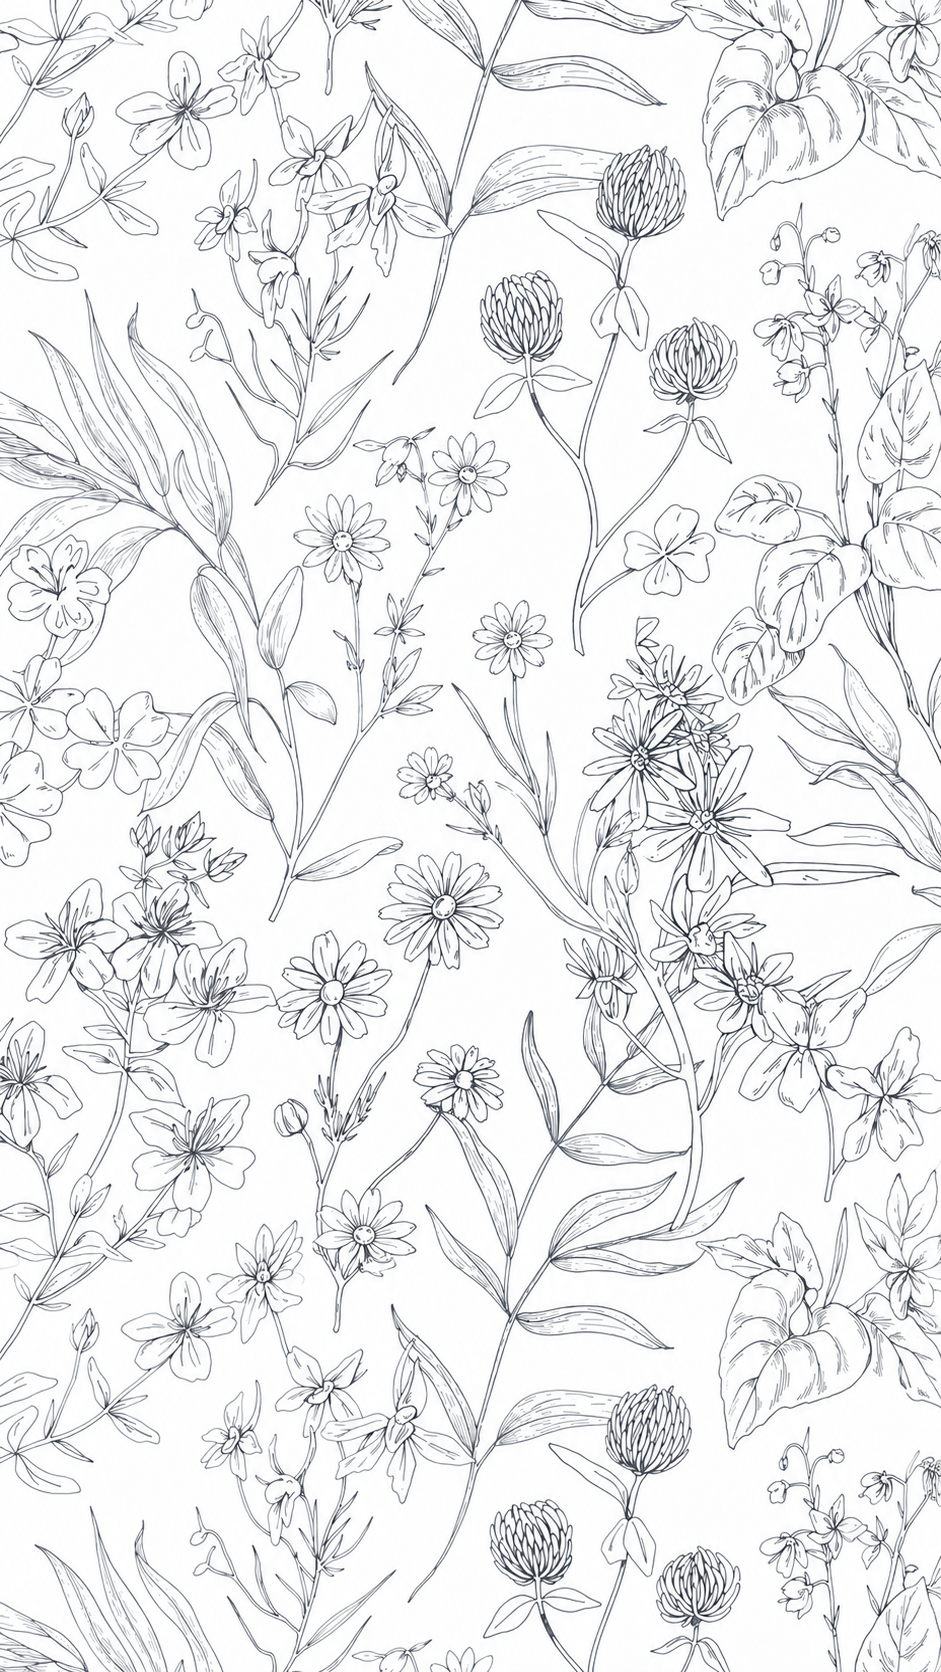
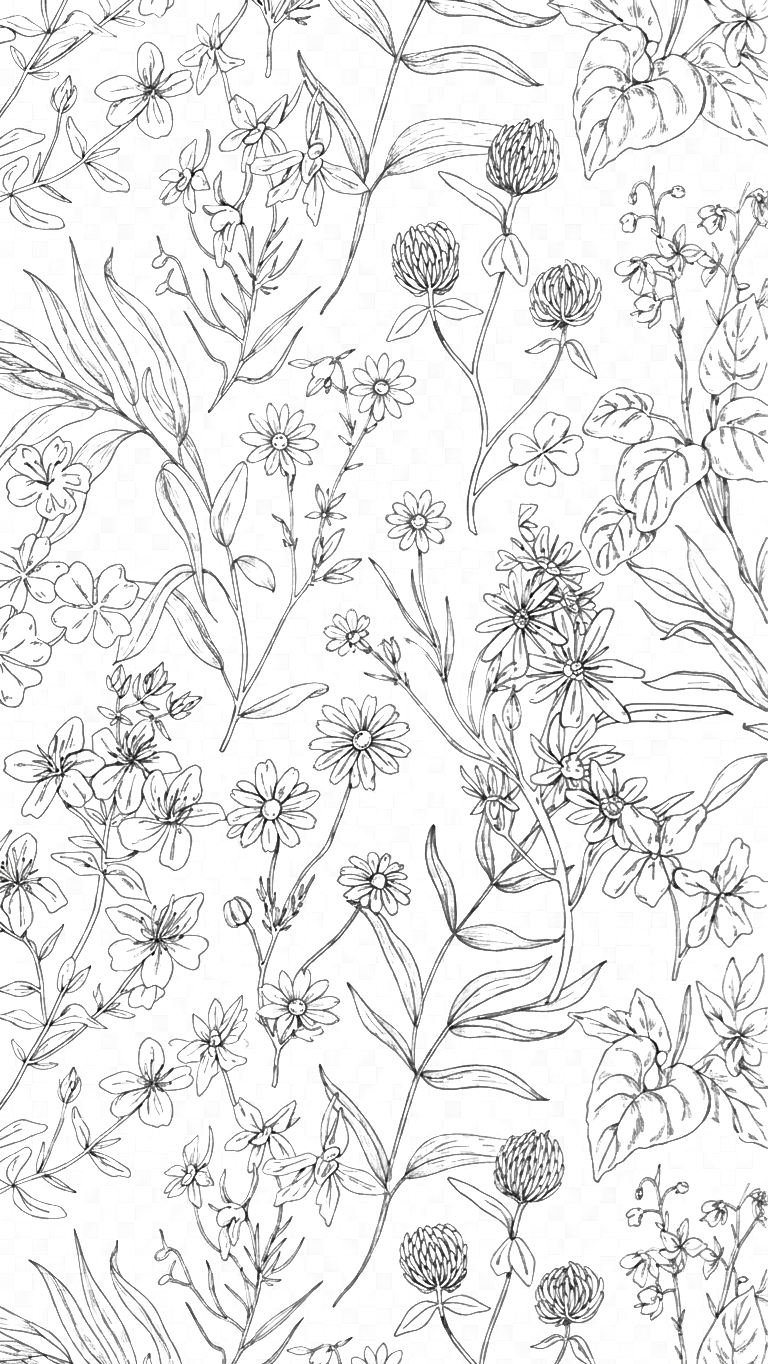
Replace hero pattern with white line work at 30% opacity
Swapped in new source artwork and reprocessed both images with
ffmpeg's geq filter to key out their backgrounds by luminance,
producing real RGBA alpha (the source PNGs were flat RGB with a
baked-in checkerboard, not actual transparency, which is why a naive
opacity+invert on the originals rendered a visible grid instead of
clean line art).

The desktop/mobile Image elements now use opacity-30 + invert (was
opacity-10, no invert): invert flips the dark strokes to white while
leaving the alpha channel untouched, giving white line work on the
white page as requested.

diff --git a/src/components/EditorialHero.tsx b/src/components/EditorialHero.tsx
@@ -235,21 +235,24 @@ export default function EditorialHero() {
       {/* Full-bleed floral watermark — spans the entire hero canvas including the
           area behind the fixed nav (the -mt/pt trick above pulls this section's own
           box up to the true page top, y=0, instead of starting below the nav). A
-          different source image is used per breakpoint (landscape vs portrait crop). */}
+          different source image is used per breakpoint (landscape vs portrait crop).
+          Source PNGs have transparent backgrounds with dark line work; `invert`
+          flips the lines to white (transparency is unaffected by the filter),
+          giving a barely-there ghosted watermark at 30% opacity on the white page. */}
       <div aria-hidden="true" className="absolute inset-0 pointer-events-none">
         <Image
           src="/patterns/floral-desktop.png"
           alt=""
           fill
           priority
-          className="hidden md:block object-cover opacity-10"
+          className="hidden md:block object-cover opacity-30 invert"
         />
         <Image
           src="/patterns/floral-mobile.png"
           alt=""
           fill
           priority
-          className="md:hidden object-cover opacity-10"
+          className="md:hidden object-cover opacity-30 invert"
         />
       </div>
 